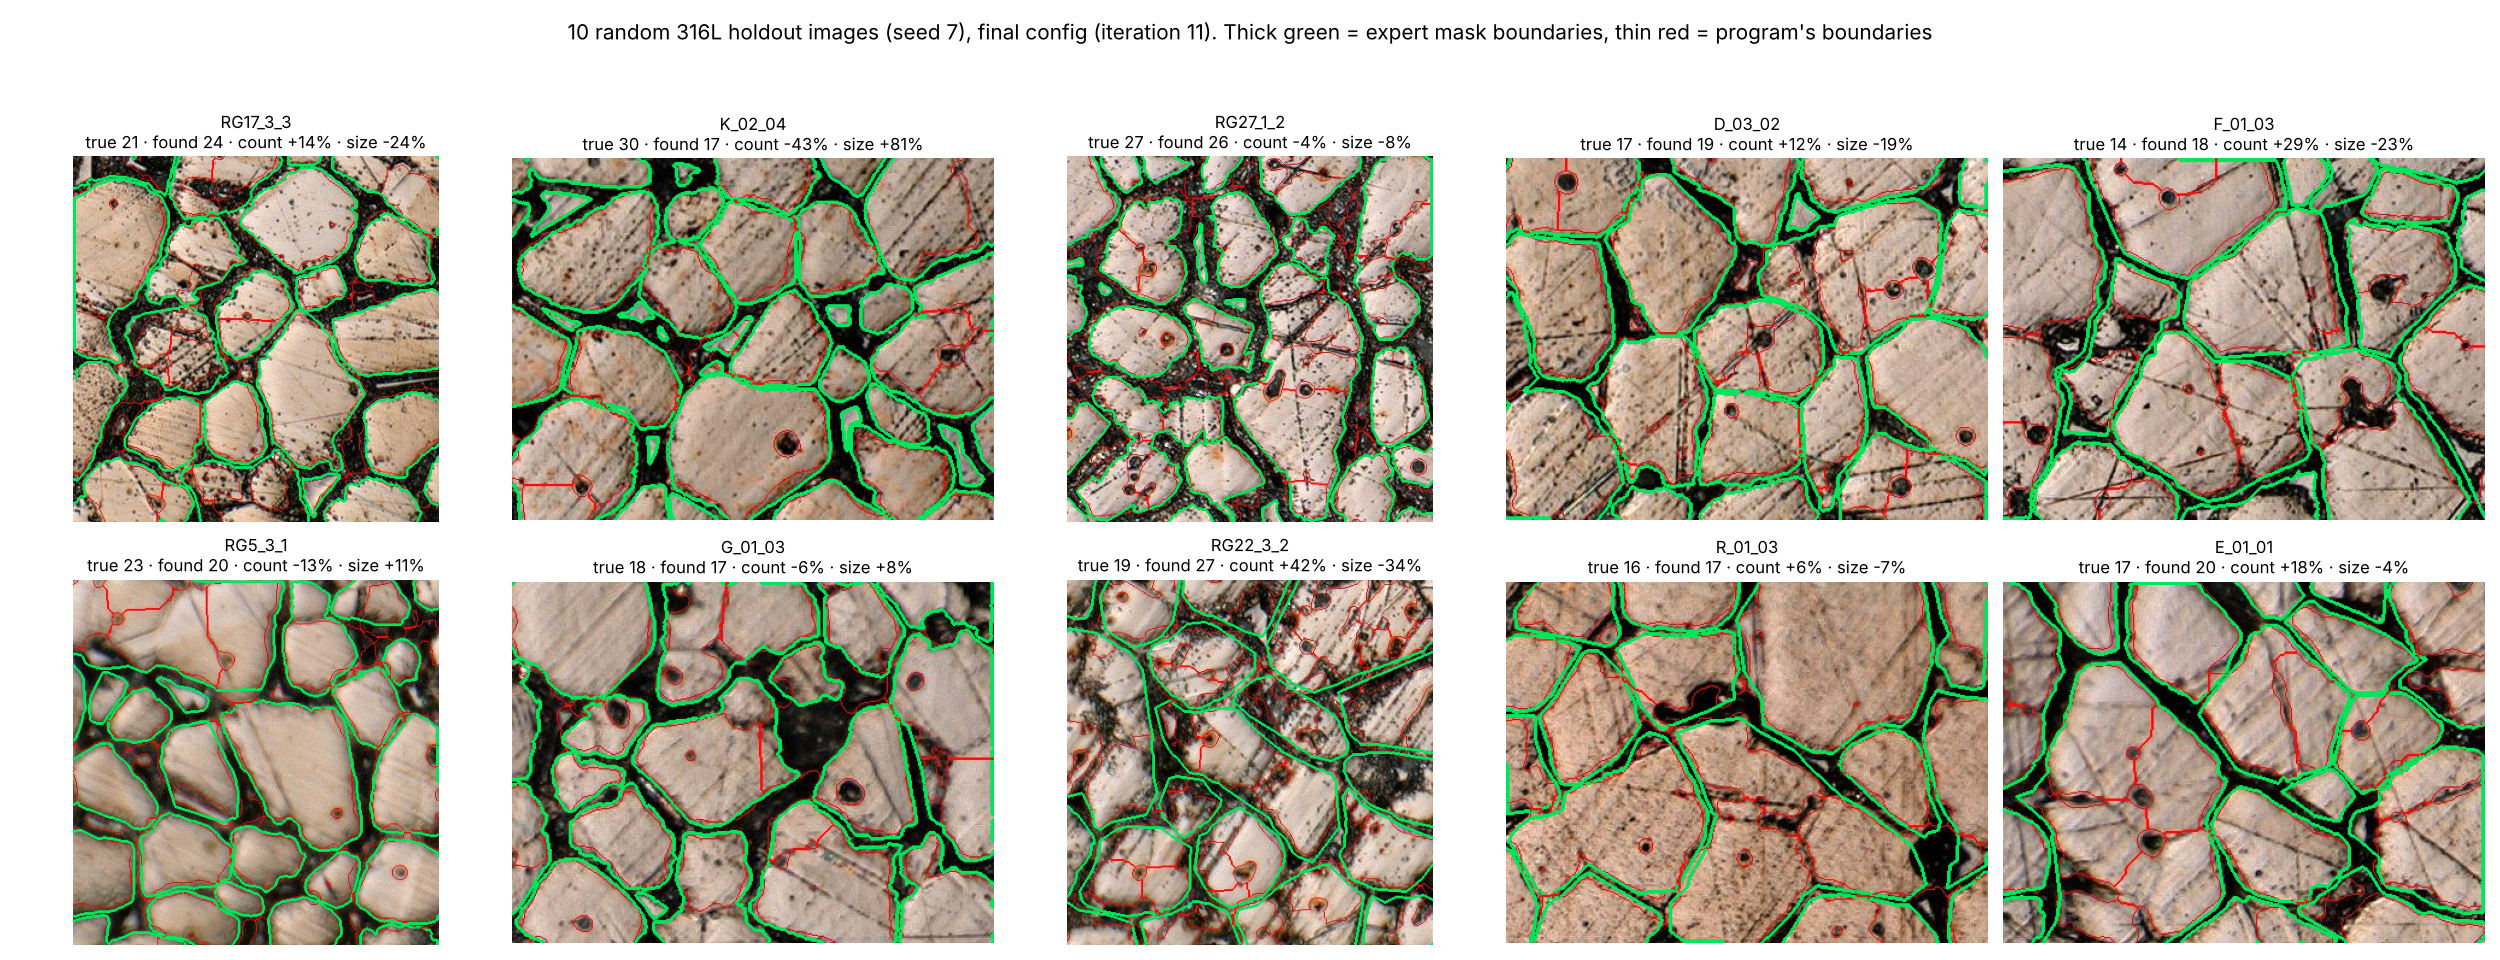
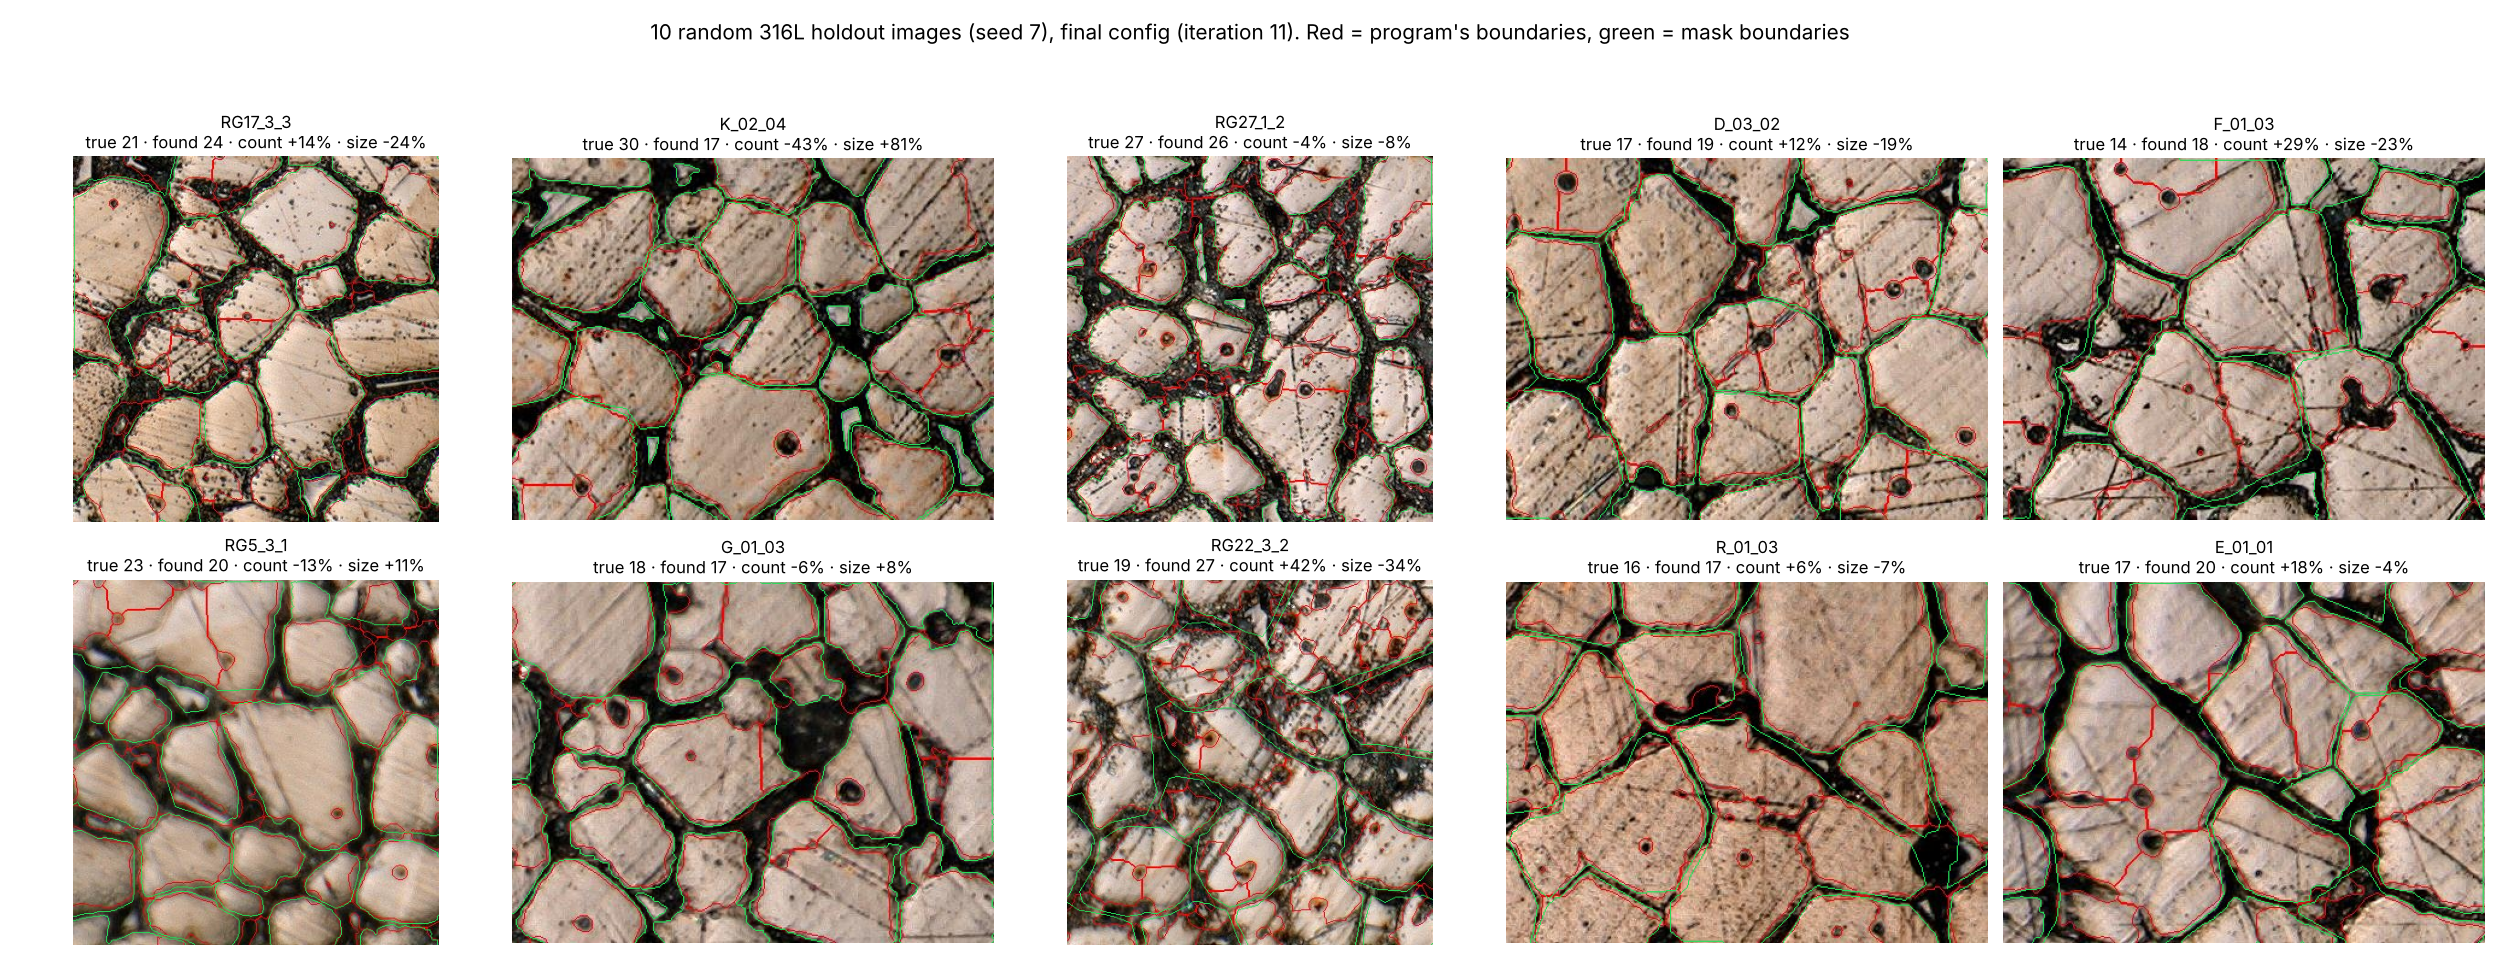
Holdout figure: thin green mask boundaries (scientist's choice); caption to match

diff --git a/README.md b/README.md
@@ -182,7 +182,7 @@ Recomputed without it: 69.2 %, 43.6 %, 10.7 % and 11.0 % (see JOURNAL.md).
 
 ![10 random 316L holdout images, final config, mask boundaries and program boundaries](docs/ten_random_316L_holdout.png)
 
-*10 random 316L holdout images (seed 7), final config. Thick green = mask boundaries, thin red = program. Counts match results/final_316L/execute.json.*
+*10 random 316L holdout images (seed 7), final config. Green = mask boundaries, red = program. Counts match results/final_316L/execute.json.*
 
 **The final 316L config (iteration 11) was not chosen by the planner.**
 The reviewers of iterations 7 and 8 suggested `fill_boundaries=false`, which matches masks that leave boundary pixels out.
